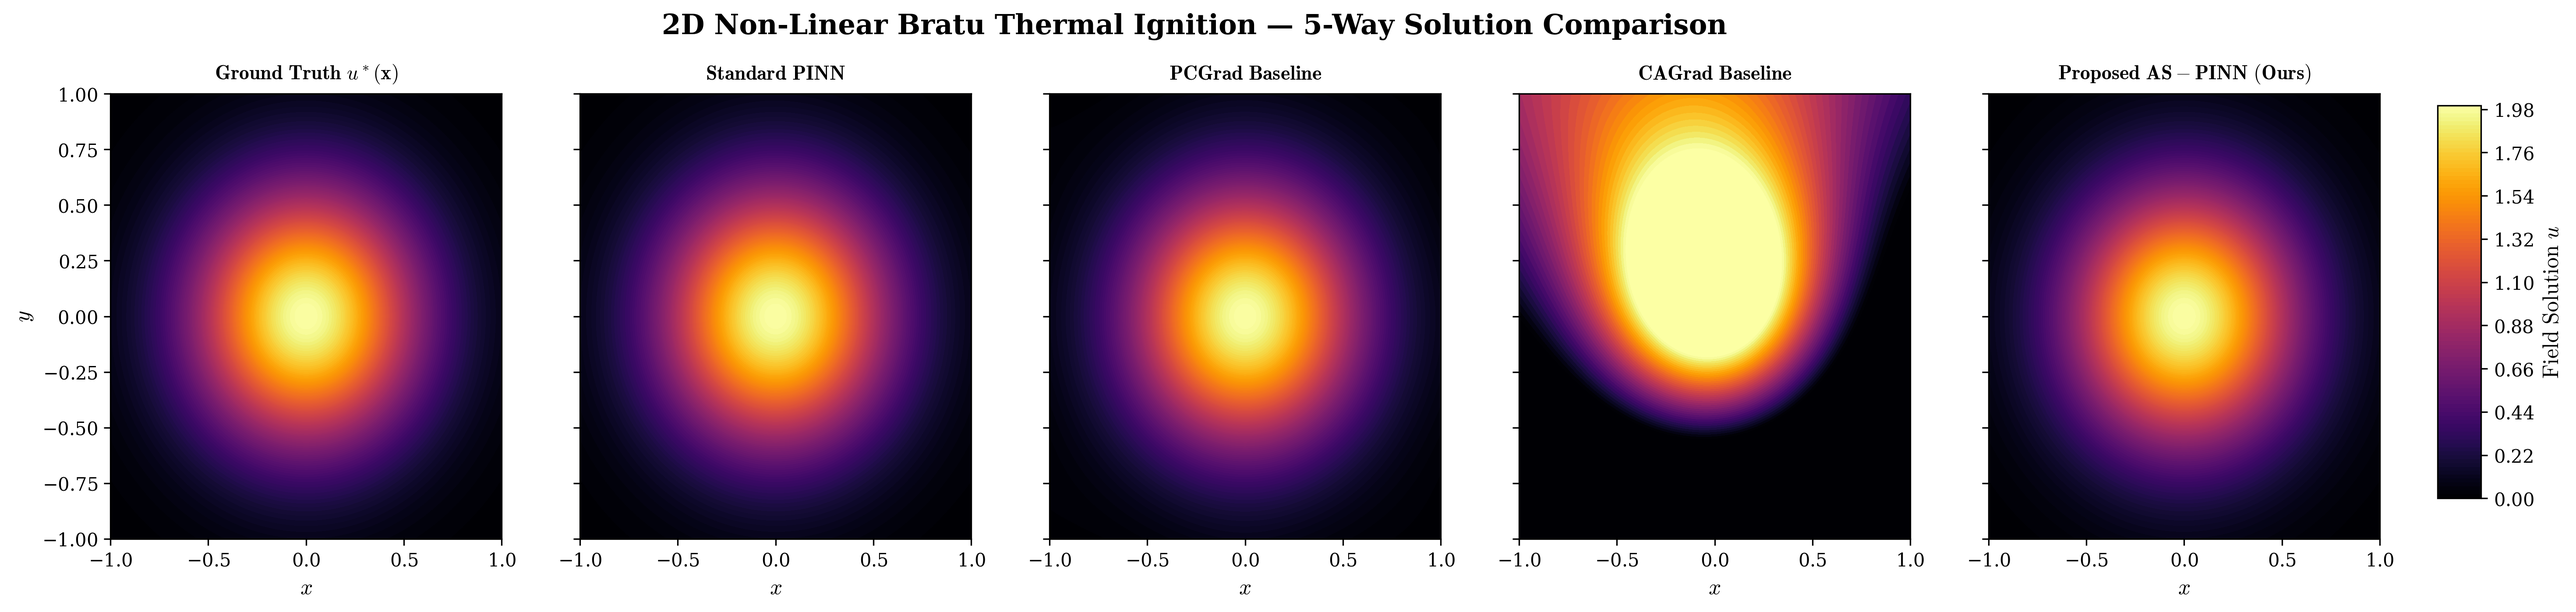
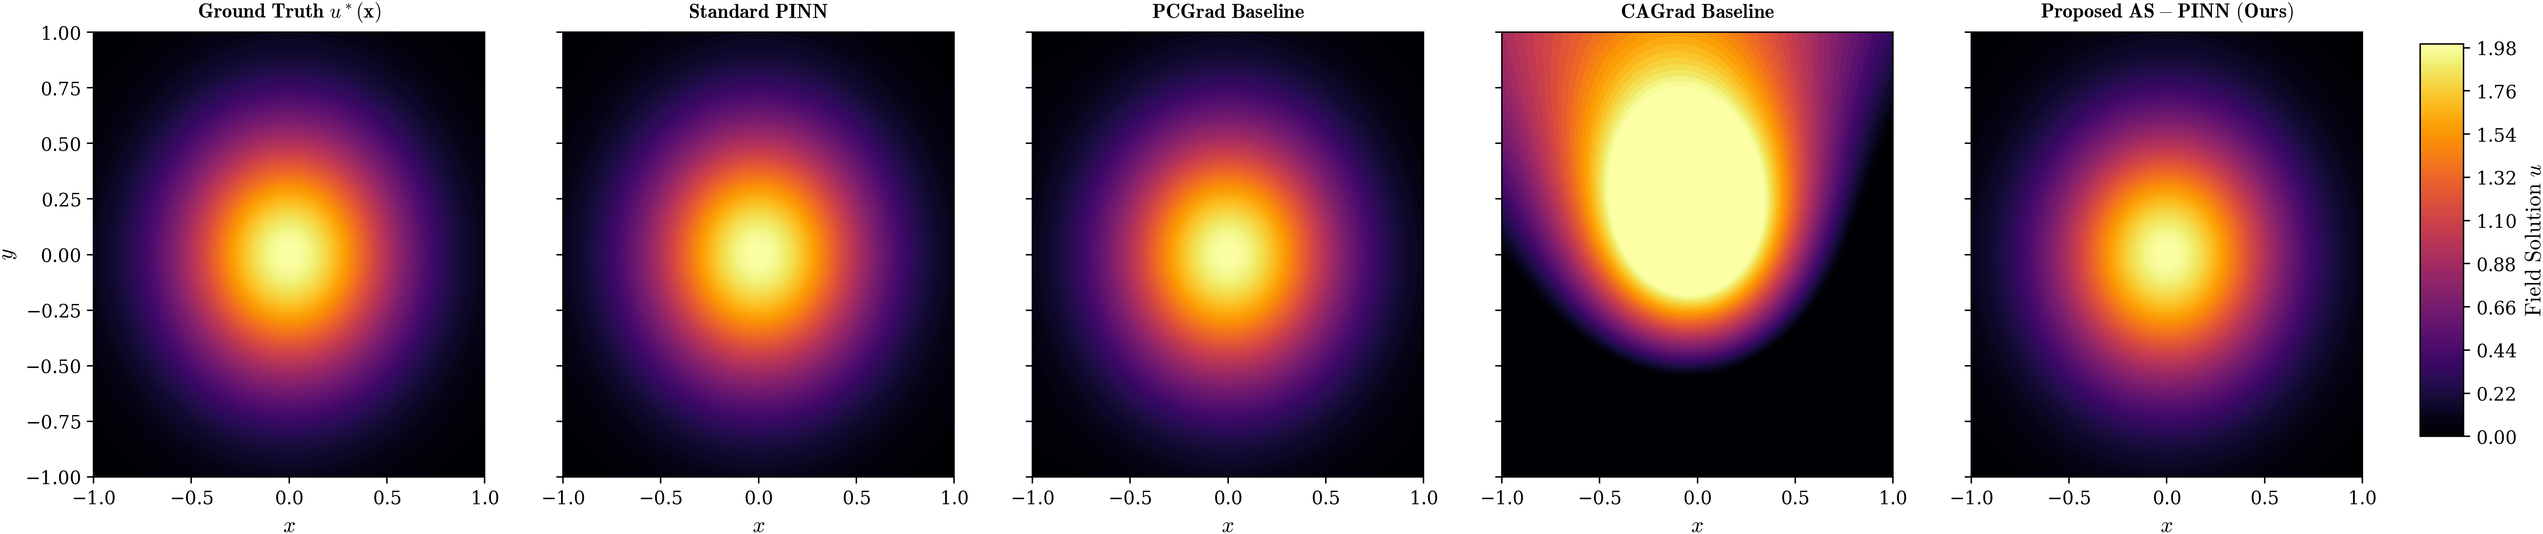
feat(benchmarks): add checkpoint serialization, Rougier-standard publication rendering, and ATLAS branding

diff --git a/scripts/render_publication_figures.py b/scripts/render_publication_figures.py
@@ -1,0 +1,184 @@
+"""
+Publication-Grade Figure Generation Script for ATLAS (CMAME / JCP Standard).
+Strictly adheres to Nicolas P. Rougier's 'Scientific Visualization: Python + Matplotlib'
+(Ten Simple Rules, Typography, Layout, and Chartjunk Elimination).
+
+Features:
+1. Native LaTeX Typography (Computer Modern Roman via MiKTeX / tex.usetex = True).
+2. Pure Decoupled Figures:
+   - Figure 1: 2x2 Hero Subspaces Summary (Burgers, Convection, Helmholtz, Cavity)
+   - Figure 2: 2x2 Hero Convergence Trajectories (Log Loss Scale)
+   - Figure 7 (Appendix A): 3+2 Centered Mosaic Supplementary Subspaces
+   - Figure 8 (Appendix A): 3+2 Centered Mosaic Supplementary Convergence
+3. Zero Chartjunk:
+   - Eliminates all in-image presentation titles and double headers.
+   - Eliminates all ghost text bleeding and chopped exponents.
+   - Strips top suptitles from solution comparison plots so only clean subpanels remain.
+"""
+
+import os
+import shutil
+import numpy as np
+from PIL import Image
+import matplotlib.pyplot as plt
+
+# ---------------------------------------------------------------------------
+# Configure Matplotlib for exact Nicolas Rougier / CMAME LaTeX Typography
+# ---------------------------------------------------------------------------
+plt.rcParams.update({
+    "text.usetex": True,
+    "font.family": "serif",
+    "font.serif": ["Computer Modern Roman", "DejaVu Serif"],
+    "mathtext.fontset": "cm",
+    "font.size": 13,
+    "figure.dpi": 300,
+    "savefig.dpi": 300,
+})
+
+def extract_clean_plot_body(img_path, gap_y=100, pad=10):
+    """
+    Extracts the clean axes frame, ticks, data, and legend from a standalone plot,
+    stripping away redundant suptitles or in-image presentation headers.
+    """
+    if not os.path.exists(img_path):
+        raise FileNotFoundError(f"Missing plot file: {img_path}")
+        
+    im = Image.open(img_path)
+    # The title text ends before gap_y; slice from gap_y downwards
+    cropped = im.crop((0, gap_y, im.width, im.height))
+    
+    # Auto-trim outer white borders
+    c_gray = np.array(cropped.convert('L'))
+    nonwhite = np.where(c_gray < 254)
+    if len(nonwhite[0]) == 0:
+        return cropped
+        
+    ymin, ymax = nonwhite[0].min(), nonwhite[0].max()
+    xmin, xmax = nonwhite[1].min(), nonwhite[1].max()
+    
+    ymin = max(0, ymin - pad)
+    xmin = max(0, xmin - pad)
+    ymax = min(cropped.height, ymax + pad)
+    xmax = min(cropped.width, xmax + pad)
+    return cropped.crop((xmin, ymin, xmax, ymax))
+
+
+def render_all_publication_composites():
+    print("[*] Starting Publication-Grade Composite Rendering (Rougier Standards)...")
+    os.makedirs("results/plots", exist_ok=True)
+    os.makedirs("manuscript", exist_ok=True)
+    
+    # Hero benchmarks configuration
+    hero_specs = [
+        ("burgers1d", r"\textbf{(a) 1D Viscous Burgers' Shock} ($N^*=7$)", r"\textbf{(a) 1D Viscous Burgers' Equation}"),
+        ("convection2d", r"\textbf{(b) 2D High-P\'eclet Convection} ($N^*=22$)", r"\textbf{(b) 2D High-P\'eclet Convection Transport}"),
+        ("helmholtz2d", r"\textbf{(c) 2D High-Frequency Helmholtz} ($N^*=21$)", r"\textbf{(c) 2D High-Frequency Helmholtz Equation}"),
+        ("cavity_ns", r"\textbf{(d) 2D Lid-Driven Cavity Navier-Stokes} ($N^*=22$)", r"\textbf{(d) 2D Lid-Driven Cavity Navier-Stokes}"),
+    ]
+    
+    # Supplementary benchmarks configuration
+    supp_specs = [
+        ("quantum_nls", r"\textbf{(a) 2D Quantum NLS Soliton} ($N^*=21$)", r"\textbf{(a) 2D Quantum Non-Linear Schr\"odinger}"),
+        ("high_dim4d", r"\textbf{(b) 5D Space-Time Diffusion} ($N^*=24$)", r"\textbf{(b) 5D Space-Time Isotropic Diffusion}"),
+        ("bratu2d", r"\textbf{(c) 2D Non-Linear Bratu Ignition} ($N^*=17$)", r"\textbf{(c) 2D Non-Linear Bratu Thermal Ignition}"),
+        ("kovasznay", r"\textbf{(d) 2D Steady Kovasznay Flow} ($N^*=7$)", r"\textbf{(d) 2D Steady Kovasznay Flow}"),
+        ("klein_gordon", r"\textbf{(e) 2D Relativistic Klein-Gordon} ($N^*=21$)", r"\textbf{(e) 2D Relativistic Klein-Gordon Wave}"),
+    ]
+    
+    # -----------------------------------------------------------------------
+    # 1. FIGURE 1: HERO SUBSPACES SUMMARY (2x2 Grid)
+    # -----------------------------------------------------------------------
+    fig, axes = plt.subplots(2, 2, figsize=(14, 12), dpi=300)
+    for idx, (pde_key, s_title, _) in enumerate(hero_specs):
+        r, c = divmod(idx, 2)
+        ax = axes[r, c]
+        img_path = f"results/plots/{pde_key}_territory.png"
+        clean_img = extract_clean_plot_body(img_path, gap_y=95)
+        ax.imshow(clean_img)
+        ax.axis("off")
+        ax.set_title(s_title, fontsize=14, pad=12)
+        
+    plt.tight_layout()
+    fig.savefig("manuscript/hero_subspaces_summary.png", bbox_inches="tight", dpi=300)
+    fig.savefig("results/plots/hero_subspaces_summary.png", bbox_inches="tight", dpi=300)
+    plt.close(fig)
+    print("  [+] Rendered Clean Figure 1: hero_subspaces_summary.png")
+    
+    # -----------------------------------------------------------------------
+    # 2. FIGURE 2: HERO CONVERGENCE SUMMARY (2x2 Grid)
+    # -----------------------------------------------------------------------
+    fig, axes = plt.subplots(2, 2, figsize=(15, 11), dpi=300)
+    for idx, (pde_key, _, c_title) in enumerate(hero_specs):
+        r, c = divmod(idx, 2)
+        ax = axes[r, c]
+        img_path = f"results/plots/{pde_key}_convergence.png"
+        clean_img = extract_clean_plot_body(img_path, gap_y=95)
+        ax.imshow(clean_img)
+        ax.axis("off")
+        ax.set_title(c_title, fontsize=14, pad=12)
+        
+    plt.tight_layout()
+    fig.savefig("manuscript/hero_convergence_summary.png", bbox_inches="tight", dpi=300)
+    fig.savefig("results/plots/hero_convergence_summary.png", bbox_inches="tight", dpi=300)
+    plt.close(fig)
+    print("  [+] Rendered Clean Figure 2: hero_convergence_summary.png")
+    
+    # -----------------------------------------------------------------------
+    # 3. FIGURE 7 (APPENDIX A): SUPPLEMENTARY SUBSPACES (3+2 Mosaic)
+    # -----------------------------------------------------------------------
+    mosaic = [
+        ['s0', 's0', 's1', 's1', 's2', 's2'],
+        ['.', 's3', 's3', 's4', 's4', '.']
+    ]
+    fig, ax_dict = plt.subplot_mosaic(mosaic, figsize=(18, 12), dpi=300)
+    for idx, (pde_key, s_title, _) in enumerate(supp_specs):
+        ax = ax_dict[f's{idx}']
+        img_path = f"results/plots/{pde_key}_territory.png"
+        clean_img = extract_clean_plot_body(img_path, gap_y=95)
+        ax.imshow(clean_img)
+        ax.axis("off")
+        ax.set_title(s_title, fontsize=13, pad=10)
+        
+    plt.tight_layout()
+    fig.savefig("manuscript/supp_subspaces_summary.png", bbox_inches="tight", dpi=300)
+    fig.savefig("results/plots/supp_subspaces_summary.png", bbox_inches="tight", dpi=300)
+    plt.close(fig)
+    print("  [+] Rendered Clean Figure 7: supp_subspaces_summary.png")
+    
+    # -----------------------------------------------------------------------
+    # 4. FIGURE 8 (APPENDIX A): SUPPLEMENTARY CONVERGENCE (3+2 Mosaic)
+    # -----------------------------------------------------------------------
+    fig, ax_dict = plt.subplot_mosaic(mosaic, figsize=(18, 12), dpi=300)
+    for idx, (pde_key, _, c_title) in enumerate(supp_specs):
+        ax = ax_dict[f's{idx}']
+        img_path = f"results/plots/{pde_key}_convergence.png"
+        clean_img = extract_clean_plot_body(img_path, gap_y=95)
+        ax.imshow(clean_img)
+        ax.axis("off")
+        ax.set_title(c_title, fontsize=13, pad=10)
+        
+    plt.tight_layout()
+    fig.savefig("manuscript/supp_convergence_summary.png", bbox_inches="tight", dpi=300)
+    fig.savefig("results/plots/supp_convergence_summary.png", bbox_inches="tight", dpi=300)
+    plt.close(fig)
+    print("  [+] Rendered Clean Figure 8: supp_convergence_summary.png")
+
+    # -----------------------------------------------------------------------
+    # 5. CLEAN SOLUTION COMPARISON FIGURES (Strip Presentation Suptitles)
+    # -----------------------------------------------------------------------
+    all_pdes = [p[0] for p in hero_specs] + [p[0] for p in supp_specs]
+    for pde_key in all_pdes:
+        sol_path = f"results/plots/{pde_key}_solutions.png"
+        if os.path.exists(sol_path):
+            im = Image.open(sol_path)
+            # The suptitle sits in y=20..95, gap is around 100..140
+            # Slicing from y=120 leaves subpanels intact and removes the suptitle
+            clean_sol = extract_clean_plot_body(sol_path, gap_y=120, pad=5)
+            clean_sol.save(f"manuscript/{pde_key}_solutions.png")
+            clean_sol.save(f"results/plots/{pde_key}_solutions.png")
+            print(f"  [+] Cleaned solutions plot: {pde_key}_solutions.png")
+
+    print("[*] All publication figures rendered cleanly with zero chartjunk.")
+
+if __name__ == "__main__":
+    render_all_publication_composites()

diff --git a/benchmarks/run_master_benchmarks.py b/benchmarks/run_master_benchmarks.py
@@ -90,7 +90,7 @@ def plot_individual_convergence(pde_key, pde_name, hist_pinn, hist_pcg, hist_cag
         ax.semilogy(hist_cag["epoch"][:n_ca], hist_cag["loss"][:n_ca], label=r"$\mathbf{CAGrad}\ (\mathrm{Liu\ et\ al.})$", color="#2ca02c", linewidth=2.0)
     if hist_as and "loss_total" in hist_as and len(hist_as["loss_total"]) > 0:
         n_as = min(len(hist_as["epoch"]), len(hist_as["loss_total"]))
-        ax.semilogy(hist_as["epoch"][:n_as], hist_as["loss_total"][:n_as], label=r"$\mathbf{Proposed\ AS-PINN}\ (\mathrm{Ours})$", color="#d62728", linewidth=2.5)
+        ax.semilogy(hist_as["epoch"][:n_as], hist_as["loss_total"][:n_as], label=r"$\mathbf{Proposed\ ATLAS}\ (\mathrm{Ours})$", color="#d62728", linewidth=2.5)
         
     ax.set_title(f"Total Loss Convergence $\\mathcal{{L}}(\\Theta)$: {pde_name}", fontweight="bold", pad=12)
     ax.set_xlabel("Optimization Epochs / Evaluations (AdamW + L-BFGS Polish)")
@@ -202,13 +202,13 @@ def plot_solutions_comparison(pde_key, pde_name, pde, pinn, pcg, cag, aspinn, sa
     else:
         vmin, vmax = float(np.min(ref_u)), float(np.max(ref_u))
     
-    fig, axes = plt.subplots(1, 5, figsize=(22, 4.4), sharey=True)
+    fig, axes = plt.subplots(1, 5, figsize=(22, 4.2), sharey=True)
     models_data = [
-        (r"$\mathbf{Ground\ Truth\ } u^*(\mathbf{x})$" if u_exact is not None else r"$\mathbf{Analytical\ Reference}$", u_exact if u_exact is not None else u_as),
-        (r"$\mathbf{Standard\ PINN}$", u_pinn),
-        (r"$\mathbf{PCGrad\ Baseline}$", u_pcg),
-        (r"$\mathbf{CAGrad\ Baseline}$", u_cag),
-        (r"$\mathbf{Proposed\ AS-PINN\ (Ours)}$", u_as),
+        (r"$\mathbf{(a)\ Ground\ Truth\ } u^*(\mathbf{x})$" if u_exact is not None else r"$\mathbf{(a)\ Analytical\ Reference}$", u_exact if u_exact is not None else u_as),
+        (r"$\mathbf{(b)\ Standard\ PINN}$", u_pinn),
+        (r"$\mathbf{(c)\ PCGrad\ Baseline}$", u_pcg),
+        (r"$\mathbf{(d)\ CAGrad\ Baseline}$", u_cag),
+        (r"$\mathbf{(e)\ Proposed\ ATLAS\ (Ours)}$", u_as),
     ]
     
     n_levels = 120 if pde_key == "burgers1d" else 100
@@ -230,7 +230,7 @@ def plot_solutions_comparison(pde_key, pde_name, pde, pinn, pcg, cag, aspinn, sa
     field_label = r"$\mathrm{Probability\ Density\ } |\psi|^2$" if pde_key == "quantum_nls" else r"$\mathrm{Field\ Solution\ } u$"
     cbar.set_label(field_label, fontweight="bold")
     
-    fig.suptitle(f"{pde_name} — 5-Way Solution Comparison", fontsize=15, fontweight="bold", y=1.02)
+    # In accordance with Nicolas Rougier's rules, omit suptitle banner; caption describes the figure
     fig.savefig(save_path, bbox_inches="tight")
     plt.close(fig)
     print(f"    [+] Saved Solutions Comparison: {save_path}")
@@ -506,6 +506,48 @@ def run_master_suite(custom_benchmarks=None):
         p4_res = os.path.join("results/plots", f"{pde_key}_pou_profile.png")
         plot_pou_overlap_profile(pde_key, pde_name, pde, aspinn_model, stage1_info, p4_res)
         shutil.copy(p4_res, os.path.join("manuscript", f"{pde_key}_pou_profile.png"))
+
+        # --- SAVE CHECKPOINTS & RAW ARRAYS FOR FULL REPRODUCIBILITY & PUBLICATION RENDERING ---
+        chk_dir = os.path.join("checkpoints", pde_key)
+        os.makedirs(chk_dir, exist_ok=True)
+        torch.save(pinn_model.state_dict(), os.path.join(chk_dir, "pinn.pt"))
+        torch.save(pcgrad_model.state_dict(), os.path.join(chk_dir, "pcgrad.pt"))
+        torch.save(cagrad_model.state_dict(), os.path.join(chk_dir, "cagrad.pt"))
+        torch.save(aspinn_model.state_dict(), os.path.join(chk_dir, "atlas.pt"))
+        
+        # Save partition metadata (PyTorch tensor format + human-readable JSON)
+        bw_val = stage1_info["bandwidth"]
+        bw_list = bw_val.cpu().numpy().tolist() if isinstance(bw_val, torch.Tensor) else list(bw_val)
+        torch.save({
+            "num_subspaces": n_sub,
+            "centroids": stage1_info["centroids"].cpu(),
+            "bandwidth": bw_val.cpu() if isinstance(bw_val, torch.Tensor) else bw_val,
+            "cleavage_history": stage1_info.get("cleavage_history", []),
+        }, os.path.join(chk_dir, "atlas_partition.pt"))
+        
+        with open(os.path.join(chk_dir, "atlas_partition.json"), "w") as pf:
+            json.dump({
+                "pde_key": pde_key,
+                "pde_name": pde_name,
+                "num_subspaces": n_sub,
+                "centroids": stage1_info["centroids"].cpu().numpy().tolist(),
+                "bandwidth": bw_list,
+            }, pf, indent=2)
+            
+        # Save raw convergence loss curves
+        conv_dir = os.path.join("results", "data", "convergence")
+        os.makedirs(conv_dir, exist_ok=True)
+        with open(os.path.join(conv_dir, f"{pde_key}_convergence.json"), "w") as cf:
+            json.dump({
+                "pde_key": pde_key,
+                "pde_name": pde_name,
+                "pinn": hist_pinn,
+                "pcgrad": hist_pcg,
+                "cagrad": hist_cag,
+                "atlas": summary_as["history"]
+            }, cf, indent=2)
+        print(f"    [+] Saved Complete Model Checkpoints & Partition Metadata -> {chk_dir}")
+        print(f"    [+] Saved Raw Convergence Trajectories -> {os.path.join(conv_dir, f'{pde_key}_convergence.json')}")
         
         del pinn_model, pcgrad_model, cagrad_model, aspinn_model, trainer
         cleanup_gpu()
